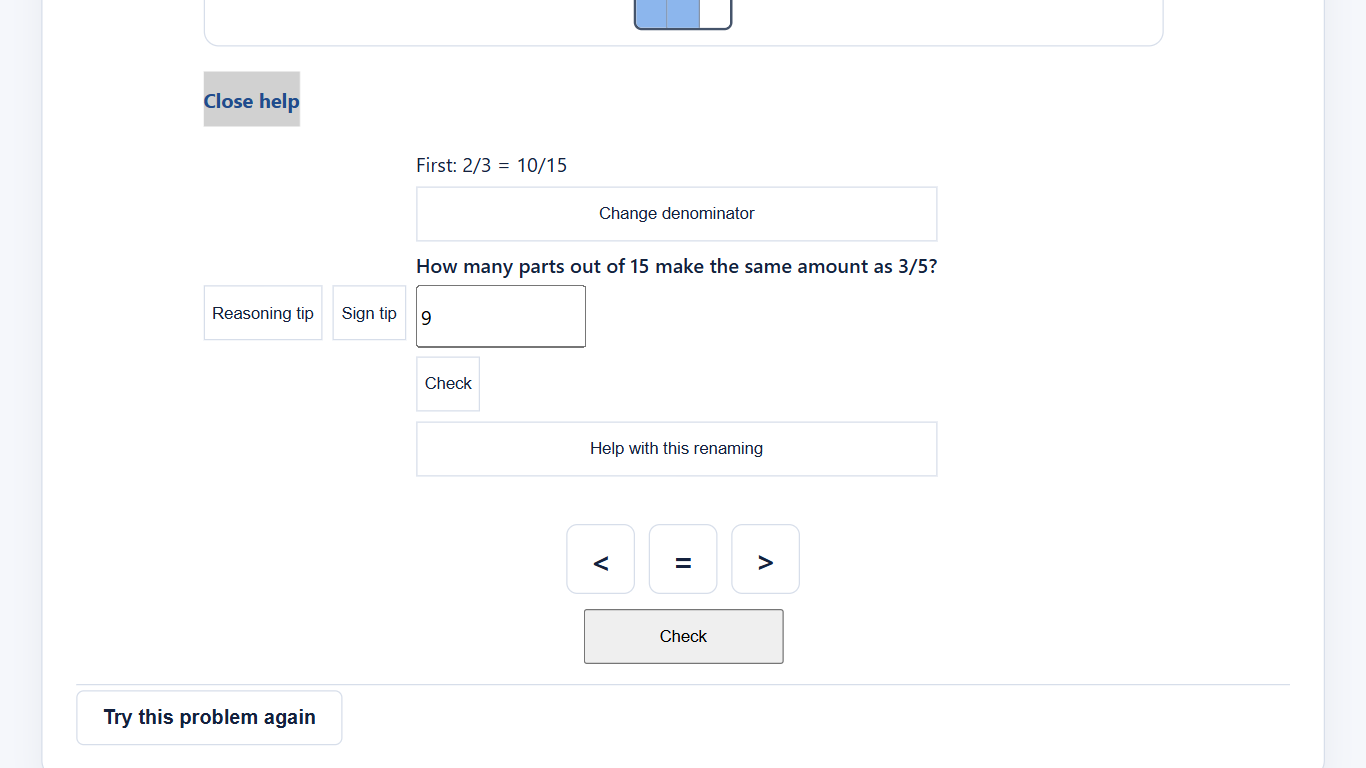
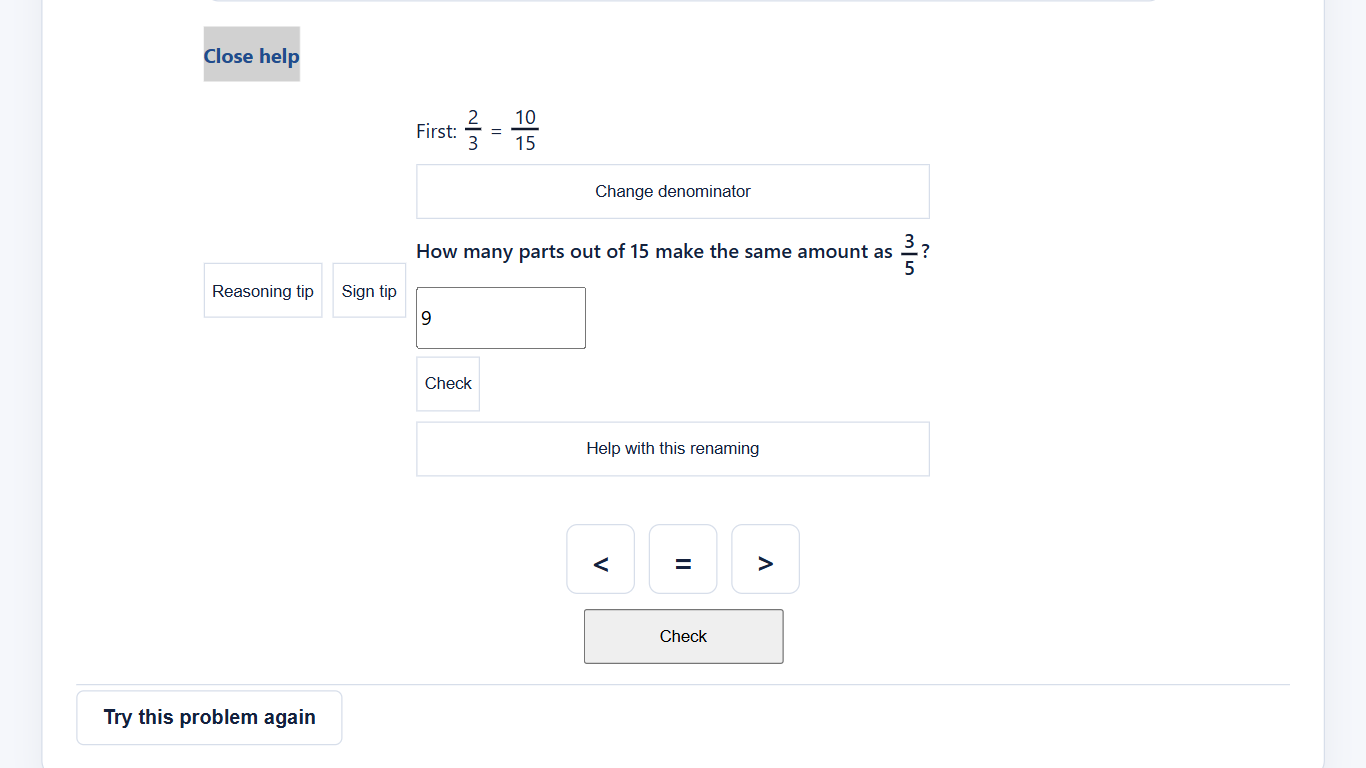
Repair comparison fraction notation and evidence

diff --git a/tests/plan49-falsification-seeds.test.js b/tests/plan49-falsification-seeds.test.js
@@ -1,17 +1,68 @@
-import { describe,it,expect,afterAll } from 'vitest';
+import { describe, it, expect, afterEach, afterAll } from 'vitest';
 import { writeFileSync } from 'node:fs';
-import { createEpisode,applyIntent } from '../src/interaction/episode.js';
-import { PLAN49_COMPARISON_EPISODE_DEFINITION as definition } from '../src/interaction/episode-definition.js';
-import { resolvePlan49Context } from '../src/interaction/plan49-comparison-construction.js';
+import { createFractionFlowApp } from '../src/app/app.js';
+import { createSymbolicFraction } from '../src/render/symbolic.js';
 import { createFraction, equalFractions } from '../src/math/index.js';
-import { resolveRenderableScene } from '../src/render/contract.js';
-const evidence=[];
-function seed(name, mutation, check, recovery) { let failure; try { check(); } catch(e) { failure=String(e.message); } expect(failure).toBeTruthy(); recovery(); evidence.push({name,mutation,observedAssertionFailure:failure,cleanRecovery:true}); }
-function start(){return createEpisode({episodeDefinition:definition,taskContext:resolvePlan49Context('plan45-compare-01')});}
-function apply(s,type,x={}){return applyIntent(s,{type,...x});}
-afterAll(()=>writeFileSync('reports/development/plan-49-optional-common-denominator-comparison-help/evidence/falsification-seeds.json',JSON.stringify({seeds:evidence},null,2)+'\n'));
-describe('Plan 49 failing-first assertions',()=>{
- it('detects premature future-form disclosure',()=>{ let s=apply(start(),'open-comparison-construction'); s=apply(s,'submit-comparison-denominator',{phase:'denominator',proposed:'15'}); const scene=resolveRenderableScene({state:s,initialRole:'fraction-bar',presentationMode:'instant-test'}); const mutated=structuredClone(scene.meaning.comparison.construction); mutated.acceptedForms.second={numerator:'9',denominator:'15'}; seed('future-form','insert second answer into pre-construction projection',()=>expect(mutated.acceptedForms.second).toBeNull(),()=>expect(scene.meaning.comparison.construction.acceptedForms.second).toBeNull()); });
- it('detects stale work after target revision',()=>{let s=apply(start(),'open-comparison-construction');s=apply(s,'submit-comparison-denominator',{phase:'denominator',proposed:'15'});s=apply(s,'submit-comparison-numerator',{phase:'first',proposed:'10'});const old=s.construction.acceptedForms.first;s=apply(s,'revise-comparison-denominator');const bad={...s.construction,acceptedForms:{...s.construction.acceptedForms,first:old}};seed('stale-form','retain old accepted form after revision',()=>expect(bad.acceptedForms.first).toBeNull(),()=>expect(s.construction.acceptedForms.first).toBeNull());});
- it('detects a wrong accepted conversion against exact core',()=>{let s=apply(start(),'open-comparison-construction');s=apply(s,'submit-comparison-denominator',{phase:'denominator',proposed:'15'});const bad=createFraction(11n,15n);const source=createFraction(2n,3n);seed('wrong-conversion','treat 11/15 as accepted equivalent of 2/3',()=>expect(equalFractions(bad,source)).toBe(true),()=>{s=apply(s,'submit-comparison-numerator',{phase:'first',proposed:'11'});expect(s.construction.phase).toBe('first');expect(s.construction.recovery).toBe('incorrect-numerator');});});
+import { setupMockDOM, teardownMockDOM } from './fixtures/mock-dom.js';
+
+const evidence = [];
+const asFraction = node => createFraction(BigInt(node.querySelector('.symbolic-numerator').textContent), BigInt(node.querySelector('.symbolic-denominator').textContent));
+function mount() {
+  const document = setupMockDOM(); const root = document.createElement('div'); document.body.appendChild(root);
+  const app = createFractionFlowApp({ root, presentationMode: 'instant-test' }).mount();
+  root.querySelector('[data-practice-type="symbolic-fraction-comparison"]').click();
+  return { root, app, document };
+}
+function apply(app, type, fields = {}) { app.dispatch({ type, ...fields }); }
+function verifier(root, state) {
+  const host = root.querySelector('.app-visual-view');
+  expect(host.querySelectorAll('.plan45-model').length).toBeLessThanOrEqual(1);
+  expect(host.querySelector('.plan45-model-pair')).toBeNull();
+  for (const side of ['first', 'second']) {
+    const row = host.querySelector(`[data-plan49-side="${side}"]`);
+    const accepted = state.construction.acceptedForms[side];
+    if (!accepted) { expect(row).toBeNull(); continue; }
+    expect(row).not.toBeNull();
+    const fractions = row.querySelectorAll('.symbolic-fraction');
+    expect(fractions).toHaveLength(2);
+    const original = state.taskContext.sourceForms[side];
+    const expectedOriginal = createFraction(BigInt(original.numerator), BigInt(original.denominator));
+    const expectedAccepted = createFraction(BigInt(accepted.numerator), BigInt(accepted.denominator));
+    expect(asFraction(fractions[0])).toEqual(expectedOriginal);
+    expect(asFraction(fractions[1])).toEqual(expectedAccepted);
+    expect(equalFractions(asFraction(fractions[1]), expectedOriginal)).toBe(true);
+    expect(asFraction(fractions[1]).denominator.toString()).toBe(state.construction.target);
+  }
+}
+function capture(name, mutation, verify, recover) {
+  let failure = null; try { verify(); } catch (error) { failure = String(error.message); }
+  expect(failure, `${name} must fail the ordinary mounted verifier`).toBeTruthy();
+  recover(); verify(); evidence.push({ name, mutation, observedAssertionFailure: failure, cleanRecovery: true });
+}
+function fakeRow(document, side, a, b) {
+  const row = document.createElement('p'); row.className = 'plan49-accepted-form'; row.setAttribute('data-plan49-side', side);
+  row.appendChild(createSymbolicFraction(a.numerator, a.denominator)); row.appendChild(createSymbolicFraction(b.numerator, b.denominator)); return row;
+}
+afterEach(() => teardownMockDOM());
+afterAll(() => writeFileSync('reports/development/plan-49-optional-common-denominator-comparison-help/evidence/falsification-seeds.json', JSON.stringify({layer:'mounted mock DOM', seeds:evidence}, null, 2) + '\n'));
+describe('Plan 49 mounted falsification', () => {
+  it('catches future construction injected into the active rendered task', () => {
+    const {root, app, document} = mount(); apply(app,'open-comparison-construction'); apply(app,'submit-comparison-denominator',{phase:'denominator',proposed:'15'});
+    const check = () => verifier(root, app.getState()); check();
+    const injected = fakeRow(document,'second',{numerator:'3',denominator:'5'},{numerator:'9',denominator:'15'});
+    root.querySelector('.app-visual-view .plan49-construction').appendChild(injected);
+    capture('future-form','inserted unconstructed second form into the mounted task',check,()=>injected.parentNode.removeChild(injected)); app.destroy();
+  });
+  it('catches a wrong displayed conversion through the exact-core fidelity check', () => {
+    const {root, app} = mount(); apply(app,'open-comparison-construction'); apply(app,'submit-comparison-denominator',{phase:'denominator',proposed:'15'}); apply(app,'submit-comparison-numerator',{phase:'first',proposed:'10'});
+    const check = () => verifier(root, app.getState()); check();
+    const row = root.querySelector('.app-visual-view [data-plan49-side="first"]'); const numerator = row.querySelectorAll('.symbolic-fraction')[1].querySelector('.symbolic-numerator'); numerator.textContent = '11';
+    capture('wrong-conversion','changed accepted 10/15 to displayed 11/15 in mounted task',check,()=>{numerator.textContent='10';}); app.destroy();
+  });
+  it('catches stale rendered work after target revision', () => {
+    const {root, app} = mount(); apply(app,'open-comparison-construction'); apply(app,'submit-comparison-denominator',{phase:'denominator',proposed:'15'}); apply(app,'submit-comparison-numerator',{phase:'first',proposed:'10'});
+    const old = root.querySelector('.app-visual-view [data-plan49-side="first"]'); apply(app,'revise-comparison-denominator');
+    const check = () => verifier(root, app.getState()); check(); root.querySelector('.app-visual-view .plan49-construction').appendChild(old);
+    capture('stale-work','reinserted prior accepted row into mounted task after target revision',check,()=>old.parentNode.removeChild(old)); app.destroy();
+  });
 });

diff --git a/src/render/plan45-comparison.js b/src/render/plan45-comparison.js
@@ -106,7 +106,11 @@ function makeConstruction(comparison, callbacks) {
   const forms = work.acceptedForms;
   for (const side of ['first', 'second']) if (forms[side]) {
     const row = element('p', 'plan49-accepted-form');
-    row.textContent = `${side === 'first' ? 'First' : 'Second'}: ${comparison.sourceForms[side].numerator}/${comparison.sourceForms[side].denominator} = ${forms[side].numerator}/${forms[side].denominator}`;
+    row.setAttribute('data-plan49-side', side);
+    const caption = element('span'); caption.textContent = side === 'first' ? 'First:' : 'Second:';
+    const equal = element('span'); equal.textContent = '='; equal.setAttribute('aria-label', 'equals');
+    append(row, caption, createSymbolicFraction(comparison.sourceForms[side].numerator, comparison.sourceForms[side].denominator, { variant: 'compact' }), equal,
+      createSymbolicFraction(forms[side].numerator, forms[side].denominator, { variant: 'compact' }));
     append(section, row);
   }
   if (work.phase !== 'denominator') append(section, button('Change denominator', { type: 'revise-comparison-denominator' }));
@@ -120,9 +124,13 @@ function makeConstruction(comparison, callbacks) {
   const form = element('form', 'plan49-helper-form');
   const id = `plan49-${callbacks.view}-${kind}`;
   const label = element('label', 'plan49-helper-question'); label.htmlFor = id;
-  label.textContent = isDenominator ? 'Choose a denominator both fractions can use.'
-    : askingMultiplier ? `What multiplier turns ${source.denominator} parts into ${work.target}?`
-    : `How many parts out of ${work.target} make the same amount as ${source.numerator}/${source.denominator}?`;
+  if (isDenominator) label.textContent = 'Choose a denominator both fractions can use.';
+  else if (askingMultiplier) label.textContent = `What multiplier turns ${source.denominator} parts into ${work.target}?`;
+  else {
+    const text = element('span'); text.textContent = `How many parts out of ${work.target} make the same amount as `;
+    const punctuation = element('span'); punctuation.textContent = '?';
+    append(label, text, createSymbolicFraction(source.numerator, source.denominator, { variant: 'compact' }), punctuation);
+  }
   append(form, label);
   if (isDenominator && work.helpRequested) {
     const cue = element('p', 'plan49-helper-cue');

diff --git a/src/styles/render.css b/src/styles/render.css
@@ -1037,3 +1037,6 @@
 .plan49-helper-question { font-weight: 600; }
 .plan49-helper-input { min-height: 44px; width: 8rem; max-width: 100%; font: inherit; }
 .plan49-helper-recovery, .plan49-helper-cue, .plan49-accepted-form { margin: 0; }
+
+.plan49-accepted-form { display: flex; flex-wrap: wrap; align-items: center; gap: .4rem; }
+.plan49-helper-question .symbolic-fraction { vertical-align: middle; margin-inline: .15rem; }

diff --git a/reports/development/plan-49-optional-common-denominator-comparison-help/repair-01.md b/reports/development/plan-49-optional-common-denominator-comparison-help/repair-01.md
@@ -1,0 +1,22 @@
+# Plan 49 Repair 01 — delivery for re-review
+
+Date: 2026-11-01. Scope follows `delivery-review.md`; owner rendered/task acceptance and packet status remain separate.
+
+## Corrections
+
+The helper now uses the shared `createSymbolicFraction` compact stacked notation for source fractions in numerator questions and both sides of each accepted equation. Labels remain associated with their inputs; no parallel slash-form equation or extra explanatory paragraph was added. The narrow screenshot was visually inspected and shows stacked source and accepted fractions. The browser's computed textbox names were checked for both “2 over 3” and “3 over 5.”
+
+The prior pure/projection-only seed claims in `delivery.md` are historical and are superseded by the replacement `tests/plan49-falsification-seeds.test.js` and `evidence/falsification-seeds.json`. A single ordinary verifier inspects the actual mounted visual task, its public episode state and rendered symbolic fractions. It checks withholding/model count, accepted-row presence and target-reset behavior, source and accepted form fidelity, and equivalence using the exact core. Each seed first passes that verifier clean, mutates the mounted DOM that the verifier consumes, records its real assertion failure, removes the mutation, and passes the same verifier again: an unconstructed second form, a displayed 11/15 in place of accepted 10/15, and an old accepted row reinserted after target revision. This is mounted mock-DOM evidence, not a browser-injected defect or a claim that the reducer accepted 11/15.
+
+`evidence/tab-journey.mjs` records a genuine sequential Tab path from the comparison screen through the help disclosure, construction entry, target Check and first renaming Check. It verifies connected focus at transitions and computed input names; `tab-journey.json` records the traversed focus sequence. It uses real browser keyboard events, not direct focus of each target. It is one bounded path, not a screen-reader or physical-keyboard test. The existing current-app keyboard/tap and high-denominator journeys were rerun and their measurements/screenshots refreshed for the typography change. At 360x740, after scrolling, the helper question/input/Check were within the viewport with no horizontal overflow; the wide sample used 1093x614 DPR 1.25. The page still requires vertical scrolling and owner layout judgment.
+
+## Validation
+
+- Focused three-file run: 8 tests passed for mounted seeds, comparison controls and public replay.
+- Final `npm test`: 66 files / 584 tests passed.
+- Final sequential `npm run build`: learner and prototype builds passed.
+- Final clean isolated `node scripts/dev/run-route-matrix.js --browser-channel msedge --quiet`: 116 existing rows / 118 browser executions passed; actual output is `evidence/repair-01-route-matrix-run.log`. Existing historical route output was not overwritten. These existing rows are separate from the new helper browser and Tab journeys.
+- Current-app `browser-journeys.mjs`, `boundary-journey.mjs` and `tab-journey.mjs` passed against the local server; screenshots `narrow-second.png`, `chromebook-second.png` and `lcd72.png` were refreshed. Automated text filling in the earlier keyboard/tap journeys remains distinct from the new Tab journey's keyboard typing.
+- `node scripts/dev/plan-status.js lint` and staged diff check passed. The three unrelated untracked Plan 39 route-run files remain untouched.
+
+No additional advisor ran, as directed for this bounded repair. Physical-device, assistive-technology, learner-understanding and efficacy evidence remain unavailable. No packet status, push or deployment changes were made.
